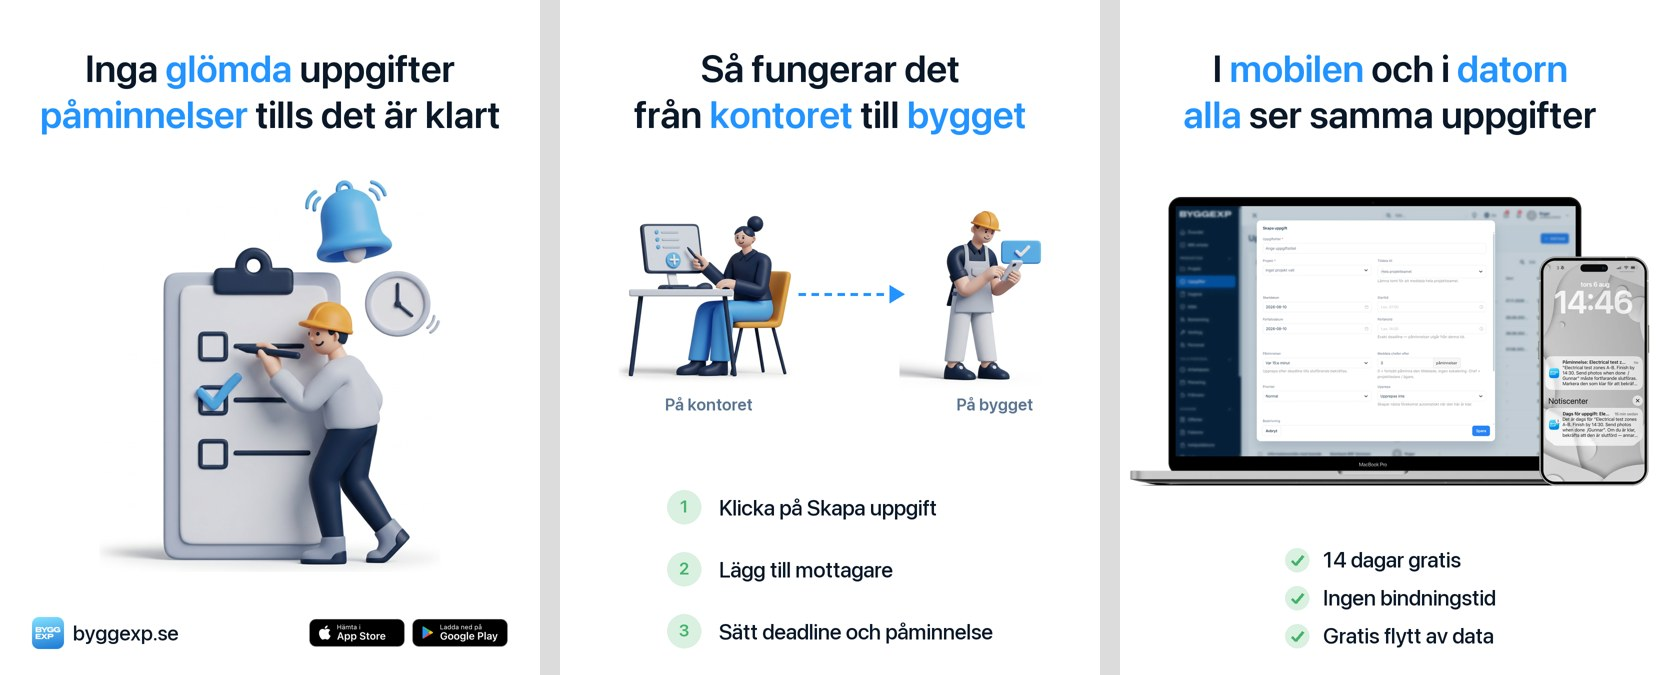
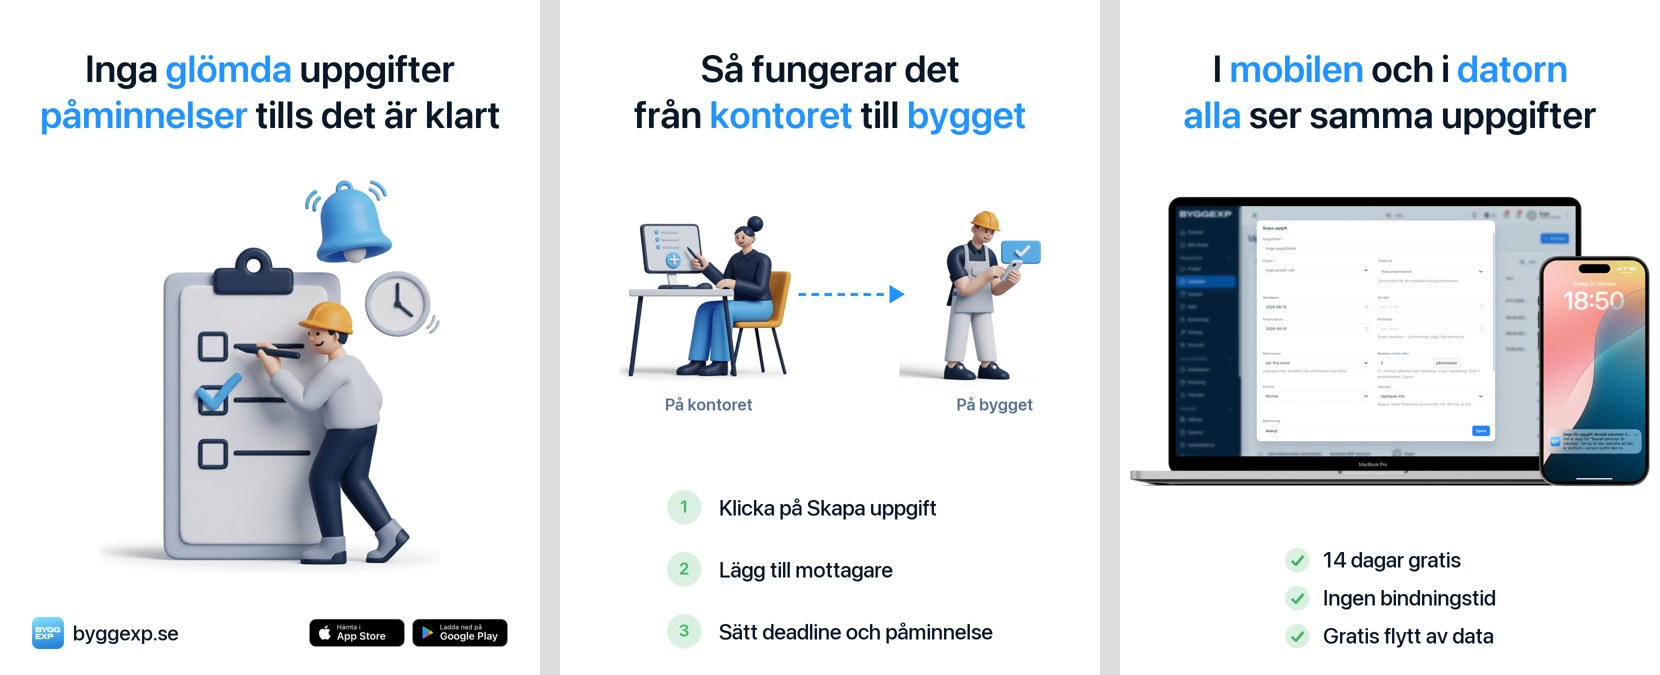
feat(smm): Swedish reminder push on carousel 2
Claude-Session: https://claude.ai/code/session_015ffAXEftTHPL4eNP1AivUn

Changed region(s): [[0.9217, 0.3733, 1.0, 0.7156]]

diff --git a/design-assets/social/posts/make_3d.py b/design-assets/social/posts/make_3d.py
@@ -308,7 +308,8 @@ FEATURE = {  # last slide: the site's laptop + phone picture; the old phone is c
     # id: (site picture, new screen, phone box on the site picture: x, y_top, height)
     "01-tid": (ROOT / "public/landing/features/1arbetspass.webp",
                APP_SHOTS / "03-arbetspass-manuell-topp.png", (1893, 268, 1044)),
-    "s02-uppgifter": (ROOT / "public/landing/features/2uppgift.webp", None, None),  # site phone is current
+    "s02-uppgifter": (ROOT / "public/landing/features/2uppgift.webp",
+                      APP_SHOTS / "07-paminnelse-lasskarm.png", (1893, 268, 1044)),  # Swedish push
     "s03-live": (ROOT / "public/landing/features/3personal.webp", None, None),
 }
 
